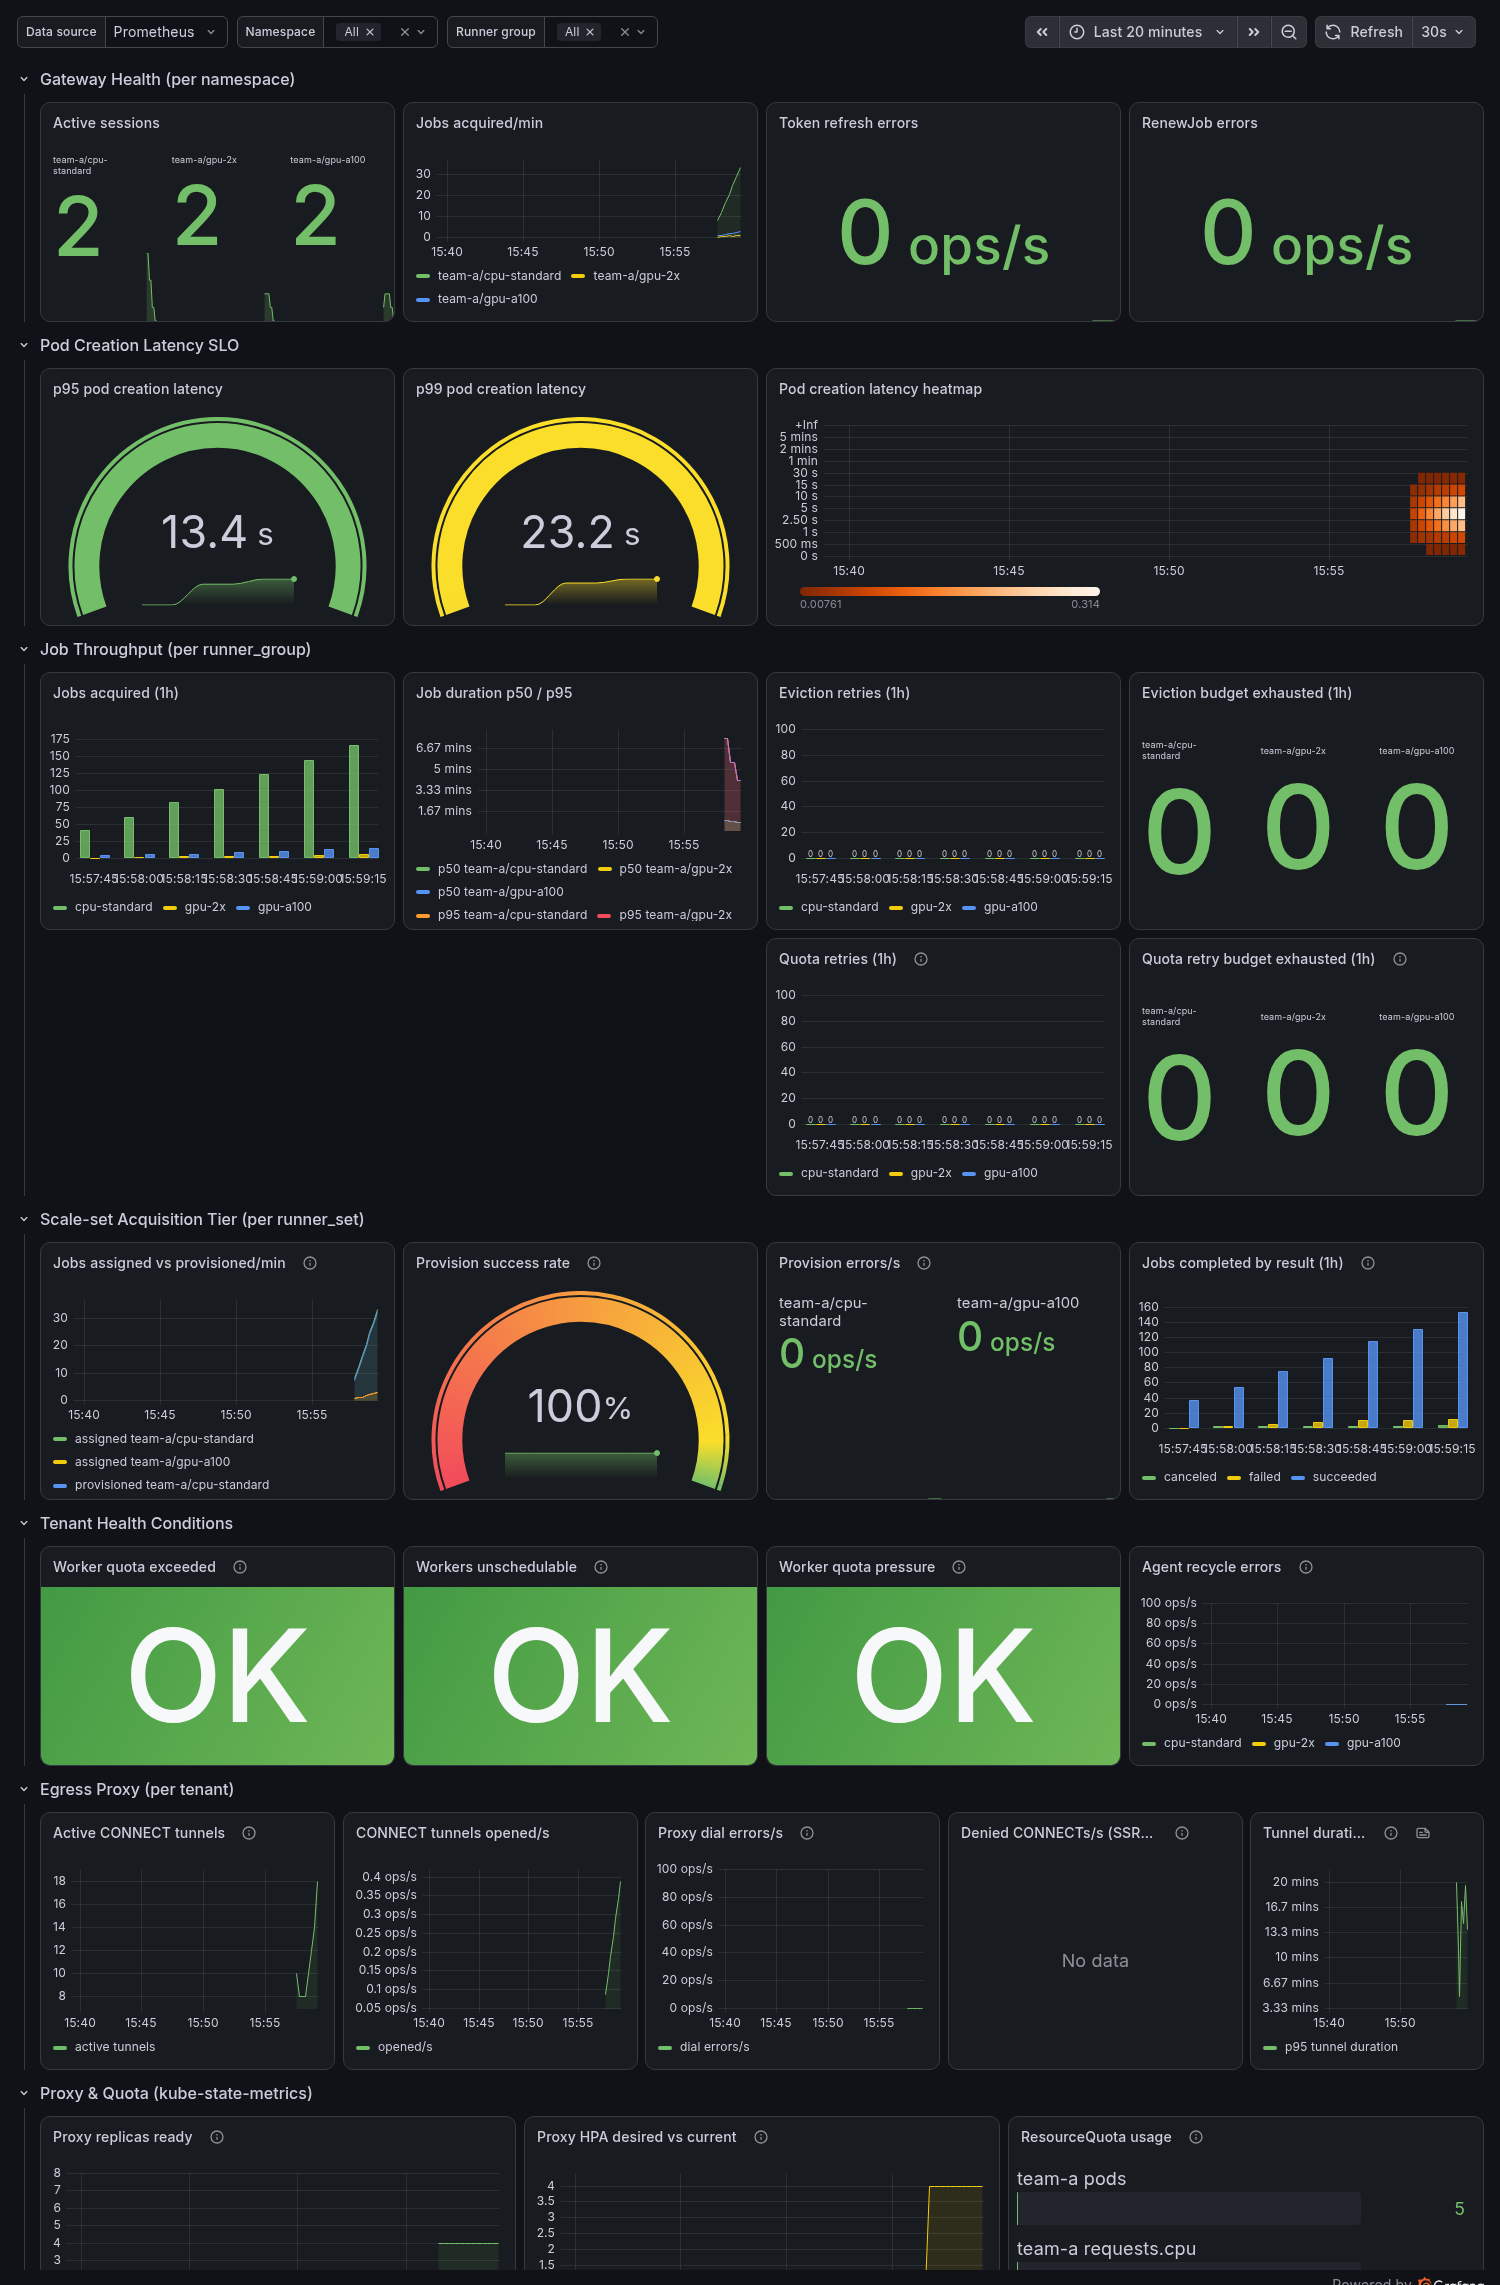
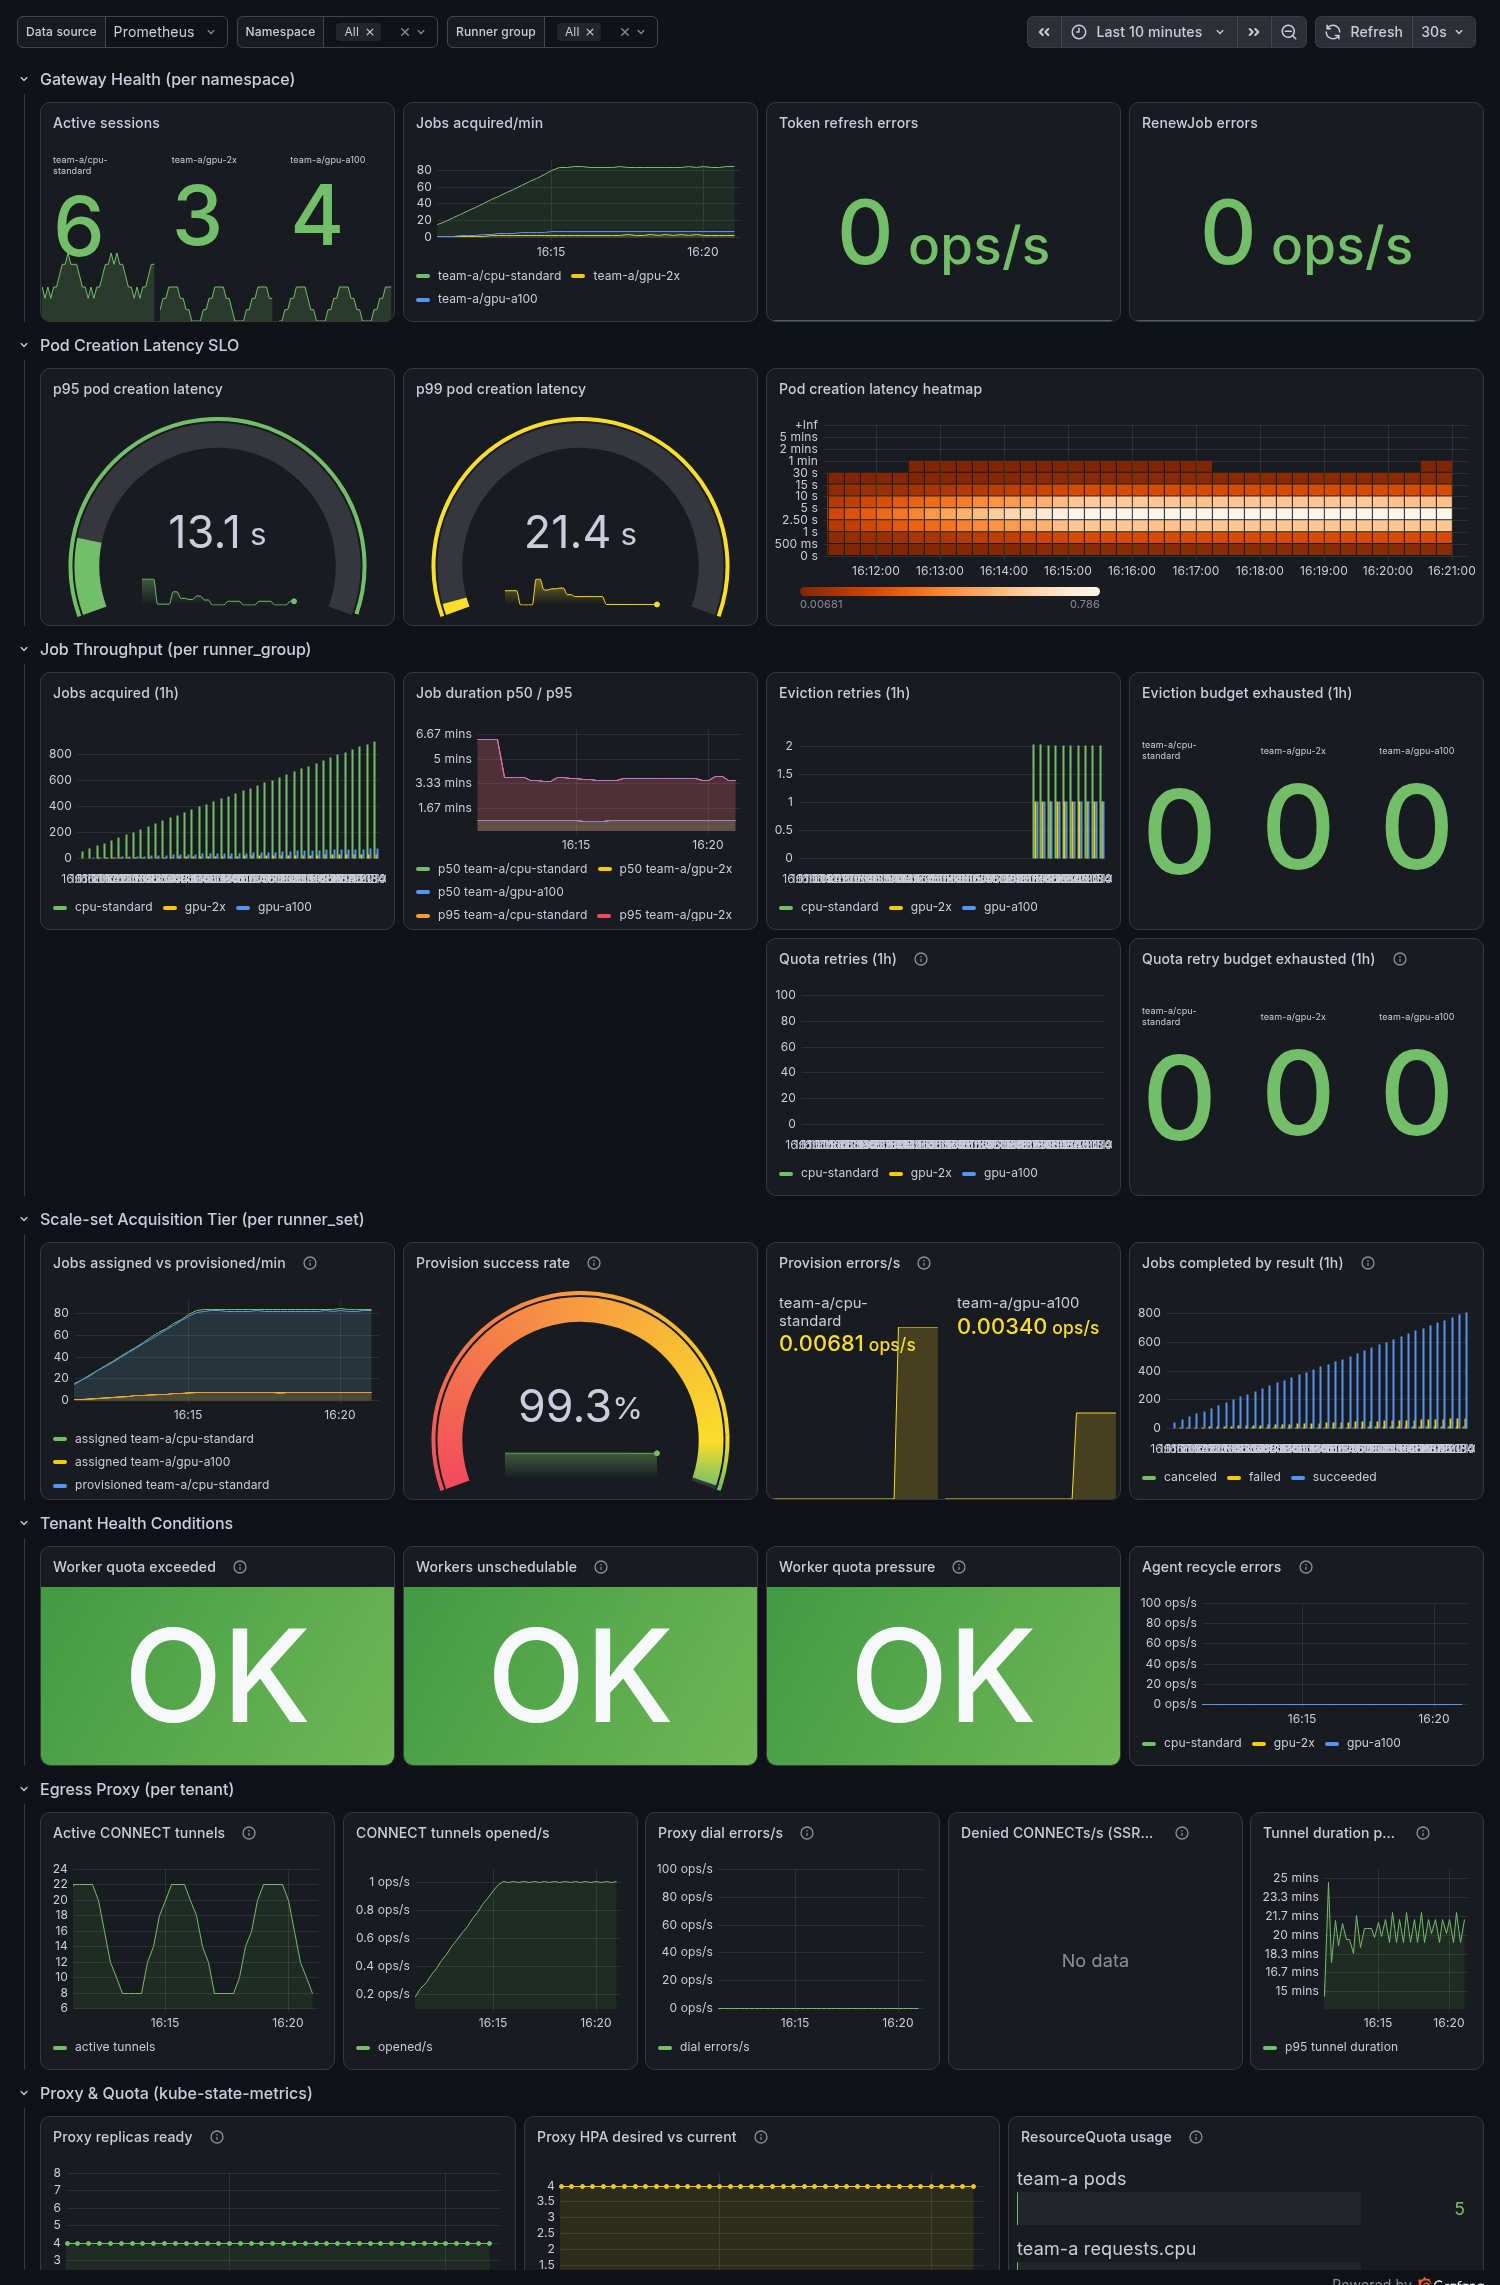
docs(monitoring): fuller, livelier dashboard preview screenshots
The previous screenshots (#669) rendered mostly-empty time-series panels
with a spike at the right edge: the exporter starts fresh but the render
window was 20m wide, so only the last minute or two was backed by data.

- render.sh: match the render window to accumulation (WAIT 180->660,
  FROM now-20m->now-10m) so the whole window is full, and document the
  WAIT >= FROM invariant.
- exporter.py: add wavy_total(), a monotonic counter whose rate() gently
  undulates, and apply it to the classic jobs-acquired and scale-set
  assigned/provisioned/completed throughput families so the lines read
  like a live system instead of dead-straight.
- Re-rendered both screenshots: panels now fill the window with lively
  curves (wavy active-sessions, ramped-then-steady throughput, full
  pod-latency heatmap, full scale-set acquisition-tier row).

Regenerated via deploy/monitoring/preview/render.sh; cluster torn down.

diff --git a/deploy/monitoring/preview/exporter.py b/deploy/monitoring/preview/exporter.py
@@ -41,6 +41,21 @@ def jitter(seed, amp):
     return amp * math.sin(seed + time.time() / 37.0)
 
 
+def wavy_total(base_rate, elapsed, seed=0.0, amp=0.4, period=300.0):
+    """Monotonic counter total whose *rate* gently undulates over time.
+
+    A plain int(base_rate * elapsed) yields a dead-straight rate() line. This
+    integrates a slow sinusoid into the total so the derived rate()/increase()
+    panels read like a live system with ebbing and flowing load. Stays
+    monotonically non-decreasing (a counter must never go backwards): the
+    instantaneous rate is base_rate * (1 + amp*cos(...)), which is > 0 for any
+    amp < 1.
+    """
+    w = (2.0 * math.pi) / period
+    total = base_rate * (elapsed + (amp / w) * (math.sin(w * elapsed + seed) - math.sin(seed)))
+    return int(max(0.0, total))
+
+
 def hist_lines(name, labels_prefix, buckets, total_rate, center_idx, elapsed):
     """Emit cumulative *_bucket/_sum/_count for a histogram.
 
@@ -75,7 +90,8 @@ def render():
 
     for ns, rg in TENANTS:
         rate = {"gpu-a100": 0.12, "cpu-standard": 0.7, "gpu-2x": 0.05}.get(rg, 0.2)
-        L.append(f'actions_gateway_jobs_acquired_total{{namespace="{ns}",runner_group="{rg}"}} {int(rate * elapsed)}')
+        acquired = wavy_total(rate, elapsed, seed=hash((ns, rg)) % 7)
+        L.append(f'actions_gateway_jobs_acquired_total{{namespace="{ns}",runner_group="{rg}"}} {acquired}')
 
     for ns in NAMESPACES:
         L.append(f'actions_gateway_job_acquisition_errors_total{{namespace="{ns}",reason="already_claimed"}} {int(0.01 * elapsed)}')
@@ -122,7 +138,7 @@ def render():
     # split mostly-succeeded by result.
     for ns, rs in SCALESETS:
         rate = {"gpu-a100": 0.12, "cpu-standard": 0.7}.get(rs, 0.2)
-        assigned = int(rate * elapsed)
+        assigned = wavy_total(rate, elapsed, seed=hash((ns, rs)) % 7)
         provisioned = int(assigned * 0.98)
         completed = int(provisioned * 0.95)
         L.append(f'actions_gateway_scaleset_jobs_assigned_total{{namespace="{ns}",runner_set="{rs}"}} {assigned}')

diff --git a/deploy/monitoring/preview/README.md b/deploy/monitoring/preview/README.md
@@ -53,10 +53,10 @@ Common knobs (environment variables):
 
 | Var | Default | Meaning |
 | --- | --- | --- |
-| `WAIT` | `180` | Seconds to let metrics accumulate before rendering (rate/histogram windows). |
+| `WAIT` | `660` | Seconds to let metrics accumulate before rendering (rate/histogram windows). Keep it `>=` the `FROM` window, or the time-series panels render mostly empty with a spike at the right edge. |
 | `OUT_DIR` | `.` | Directory the PNGs are written to. |
 | `WIDTH` / `HEIGHT` | `1500` / `2300` | Render dimensions. |
-| `FROM` / `TO` | `now-20m` / `now` | Dashboard time range. |
+| `FROM` / `TO` | `now-10m` / `now` | Dashboard time range. Matched to `WAIT` so the whole window is backed by data. |
 | `CLUSTER` | `gag-obs` | kind cluster name. |
 
 ## Iterating
